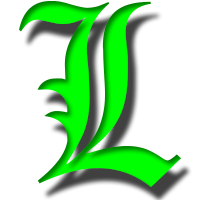
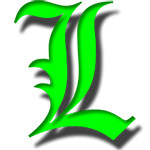
reset L

diff --git a/css/default.css b/css/default.css
@@ -108,7 +108,7 @@ text-transform:none;
 h1 a:hover { color:#fba919 ;}
 
 #logo {
-	margin: -65px 10px -30px -50px;
+	margin: -35px 10px -30px -50px;
 	float:right;
 	background: url('/images/site/L.png');
 	height: 150px; width:150px;
